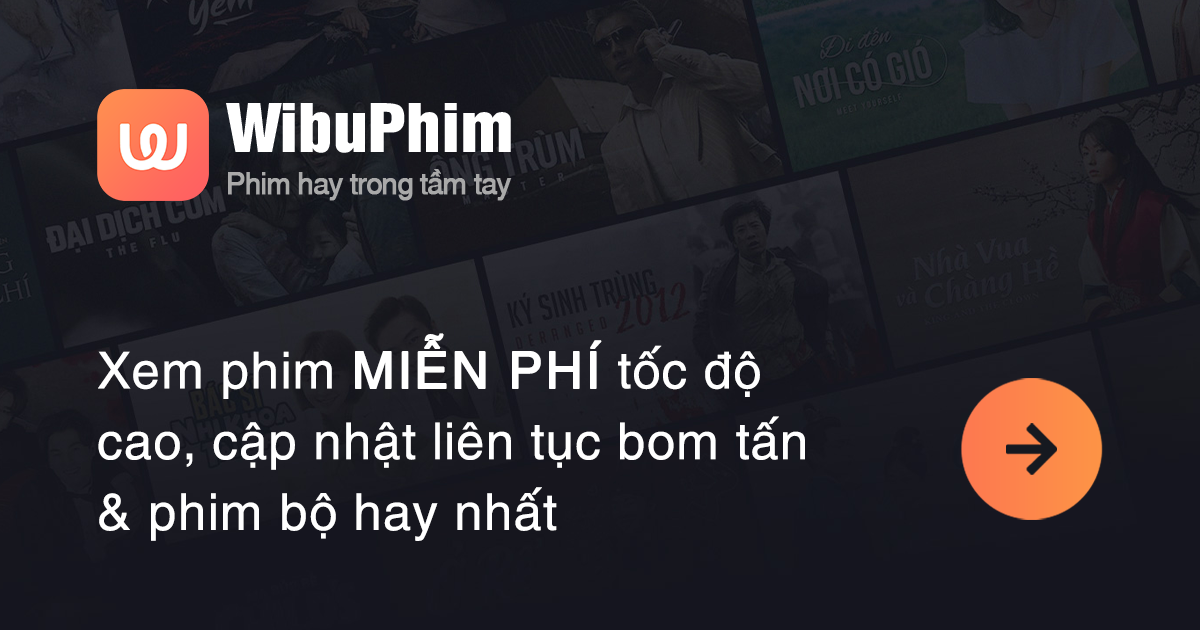
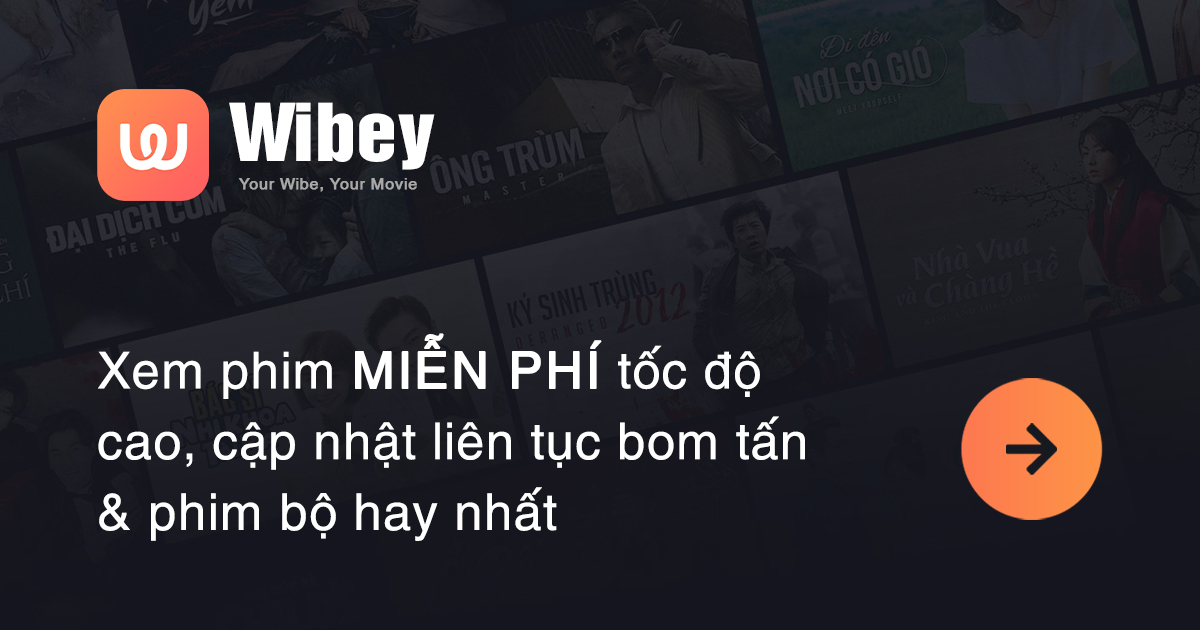
Update v1.3.6

Changed region(s): [[0.185, 0.1508, 0.4317, 0.3317]]

diff --git a/index.html b/index.html
@@ -2406,7 +2406,7 @@ footer {
                 <i class="fab fa-facebook-f"></i>
             </div>
             <div class="comm-info">
-                <div class="comm-title">Cộng Đồng WibuTeam</div>
+                <div class="comm-title">Cộng Đồng WibeyTeam</div>
                 <div class="comm-desc">Tham gia Group Facebook để yêu cầu phim, báo lỗi và chém gió cùng admin!</div>
             </div>
         </div>
@@ -2419,7 +2419,7 @@ footer {
 
     <div class="ad-panel-wrapper">
         <a href="https://wibey.netlify.app/nap-coin.html" target="_blank" class="ad-link">
-            <img src="https://wibey.netlify.app/WIBUPHIMADSVIP.PNG" alt="Quảng cáo" class="ad-img-728">
+            <img src="https://wibey.netlify.app/WIBEYPHIMADSVIP.PNG" alt="Quảng cáo" class="ad-img-728">
         </a>
     </div>
 
@@ -2455,8 +2455,8 @@ footer {
     </main>
 
     <div class="ad-panel-wrapper">
-        <a href="https://wibuanime.netlify.app" target="_blank" class="ad-link">
-            <img src="https://wibey.netlify.app/WIBUPHIMADS.PNG" alt="Quảng cáo" class="ad-img-728">
+        <a href="https://wibey.netlify.app" target="_blank" class="ad-link">
+            <img src="https://wibey.netlify.app/WIBEYPHIMADS.PNG" alt="Quảng cáo" class="ad-img-728">
         </a>
     </div>
 
@@ -2511,7 +2511,7 @@ footer {
 
     <div class="ad-panel-wrapper">
         <a href="https://wibey.netlify.app" target="_blank" class="ad-link">
-            <img src="https://wibey.netlify.app/WIBUPHIMADSVIP.PNG" alt="Quảng cáo" class="ad-img-728">
+            <img src="https://wibey.netlify.app/WIBEYPHIMADSVIP.PNG" alt="Quảng cáo" class="ad-img-728">
         </a>
     </div>
 
@@ -2542,8 +2542,8 @@ footer {
     </section>
 
     <div class="ad-panel-wrapper">
-        <a href="https://wibuanime.netlify.app" target="_blank" class="ad-link">
-            <img src="https://wibey.netlify.app/WIBUPHIMADS.PNG" alt="Quảng cáo" class="ad-img-728">
+        <a href="https://wibey.netlify.app" target="_blank" class="ad-link">
+            <img src="https://wibey.netlify.app/WIBEYPHIMADS.PNG" alt="Quảng cáo" class="ad-img-728">
         </a>
     </div>
 
@@ -2578,7 +2578,7 @@ footer {
 
     <div class="ad-panel-wrapper">
         <a href="https://wibey.netlify.app" target="_blank" class="ad-link">
-            <img src="https://wibey.netlify.app/WIBUPHIMADSVIP.PNG" alt="Quảng cáo" class="ad-img-728">
+            <img src="https://wibey.netlify.app/WIBEYPHIMADSVIP.PNG" alt="Quảng cáo" class="ad-img-728">
         </a>
     </div>
 
@@ -2616,7 +2616,7 @@ footer {
                 <li><a href="lienhequangcao.html">Liên hệ quảng cáo</a></li>
                 <li><a href="baoloi.html">Báo lỗi phim</a></li>
                 <li><a href="dieukhoan.html">Điều khoản dịch vụ</a></li>
-                <li><a href="https://wibey.netlify.app" target="_blank">Về WibuTeam</a></li>
+                <li><a href="https://wibey.netlify.app" target="_blank">Về WibeyTeam</a></li>
             </ul>
         </div>
 
@@ -2651,7 +2651,7 @@ footer {
         <i class="fas fa-times aib-close" onclick="closeAppBanner()"></i>
         
         <a href="/Wibey.apk" download>
-            <img src="https://wibey.netlify.app/WIBUPHIMAPP.png" alt="Tải App Wibey">
+            <img src="https://wibey.netlify.app/WIBEYPHIMAPP.png" alt="Tải App Wibey">
         </a>
     </div>
 </div>

diff --git a/xem-phim/index.html b/xem-phim/index.html
@@ -1848,7 +1848,7 @@ footer {
 
     <div class="ad-panel-wrapper">
         <a href="https://wibey.netlify.app/nap-coin.html" target="_blank" class="ad-link">
-            <img src="https://wibey.netlify.app/WIBUPHIMADSVIP.PNG" alt="Quảng cáo" class="ad-img-728">
+            <img src="https://wibey.netlify.app/WIBEYPHIMADSVIP.PNG" alt="Quảng cáo" class="ad-img-728">
         </a>
     </div>
 
@@ -1861,7 +1861,7 @@ footer {
                 <i class="fab fa-facebook-f"></i>
             </div>
             <div class="comm-info">
-                <div class="comm-title">Cộng Đồng WibuTeam</div>
+                <div class="comm-title">Cộng Đồng WibeyTeam</div>
                 <div class="comm-desc">Tham gia Group Facebook để yêu cầu phim, báo lỗi và chém gió cùng admin!</div>
             </div>
         </div>
@@ -1906,7 +1906,7 @@ footer {
                 <li><a href='/lienhequangcao'>Liên hệ quảng cáo</a></li>
                 <li><a href='/baoloi'>Báo lỗi phim</a></li>
                 <li><a href="../dieukhoan.html">Điều khoản dịch vụ</a></li>
-                <li><a href="https://wibey.netlify.app" target="_blank">Về WibuTeam</a></li>
+                <li><a href="https://wibey.netlify.app" target="_blank">Về WibeyTeam</a></li>
             </ul>
         </div>
 

diff --git a/nap-coin.html b/nap-coin.html
@@ -638,7 +638,7 @@
                 <li><a href="lienhequangcao.html">Liên hệ quảng cáo</a></li>
                 <li><a href="baoloi.html">Báo lỗi phim</a></li>
                 <li><a href="dieukhoan.html">Điều khoản dịch vụ</a></li>
-                <li><a href="wibuteam.netlify.app">Về WibuTeam</a></li>
+                <li><a href="wibey.netlify.app">Về WibeyTeam</a></li>
             </ul>
         </div>
 
@@ -665,7 +665,7 @@
     </div>
 
     <div class="footer-bottom">
-        <span>&copy; 2026 Wibey. All Rights Reserved By WibuTeam.</span>
+        <span>&copy; 2026 Wibey. All Rights Reserved.</span>
     </div>
 </footer>
     <div class="modal" id="bank-modal">

diff --git a/baoloi.html b/baoloi.html
@@ -183,7 +183,7 @@
             <div class="group-preview">
                 <div class="fb-icon"><i class="fab fa-facebook-f"></i></div>
                 <div class="group-info">
-                    <h4>Cộng Đồng WibuTeam</h4>
+                    <h4>Cộng Đồng WibeyTeam</h4>
                     <p>Báo lỗi, Yêu cầu phim & Chém gió</p>
                 </div>
                 <i class="fas fa-chevron-right" style="color: #fff; margin-left: auto; opacity: 0.5;"></i>

diff --git a/login.html b/login.html
@@ -120,7 +120,7 @@
 
             <div class="relative z-10 text-xs font-bold text-gray-600 flex items-center gap-2">
                 <div class="h-px w-8 bg-gray-600"></div>
-                © 2026 Wibey. All Rights Reserved By WibuTeam.
+                © 2026 Wibey. All Rights Reserved.
             </div>
         </div>
 

diff --git a/lienhequangcao.html b/lienhequangcao.html
@@ -182,7 +182,7 @@
             <div class="status-dot" title="Online"></div>
         </div>
 
-        <h1>WibuTeam Support</h1>
+        <h1>WibeyTeam Support</h1>
         <span class="role-badge">Admin & Quảng Cáo</span>
 
         <p class="desc">
